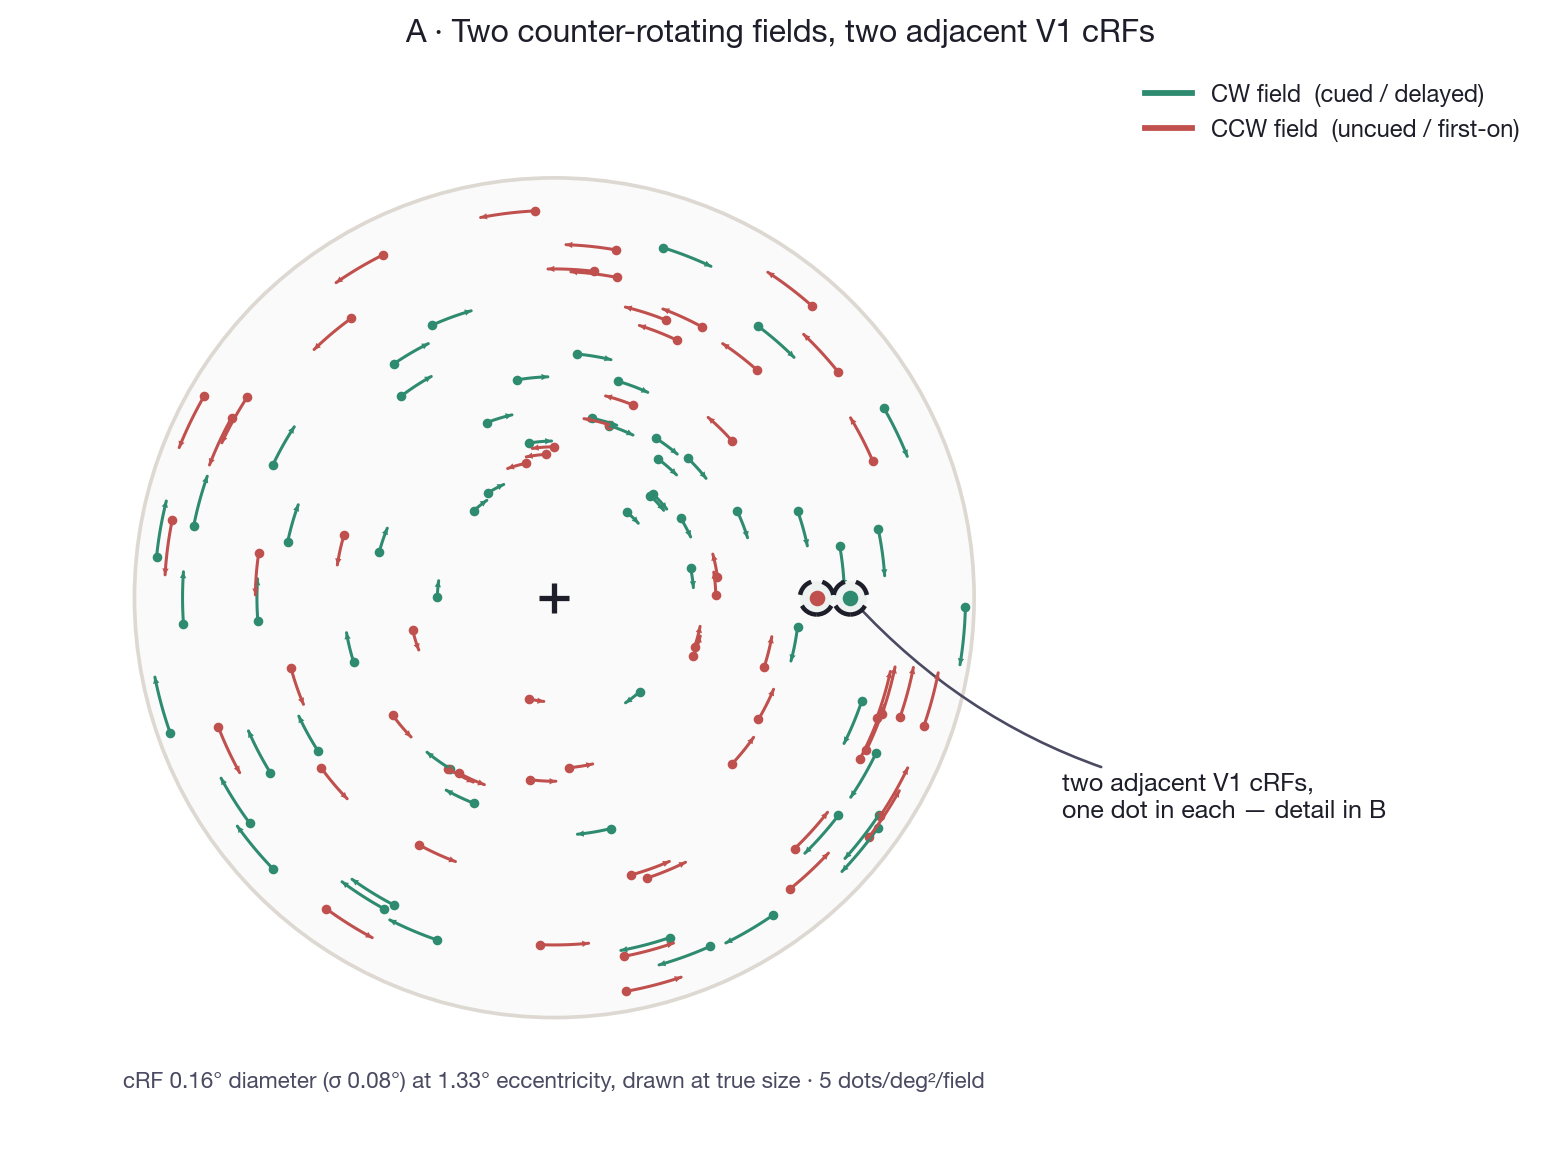
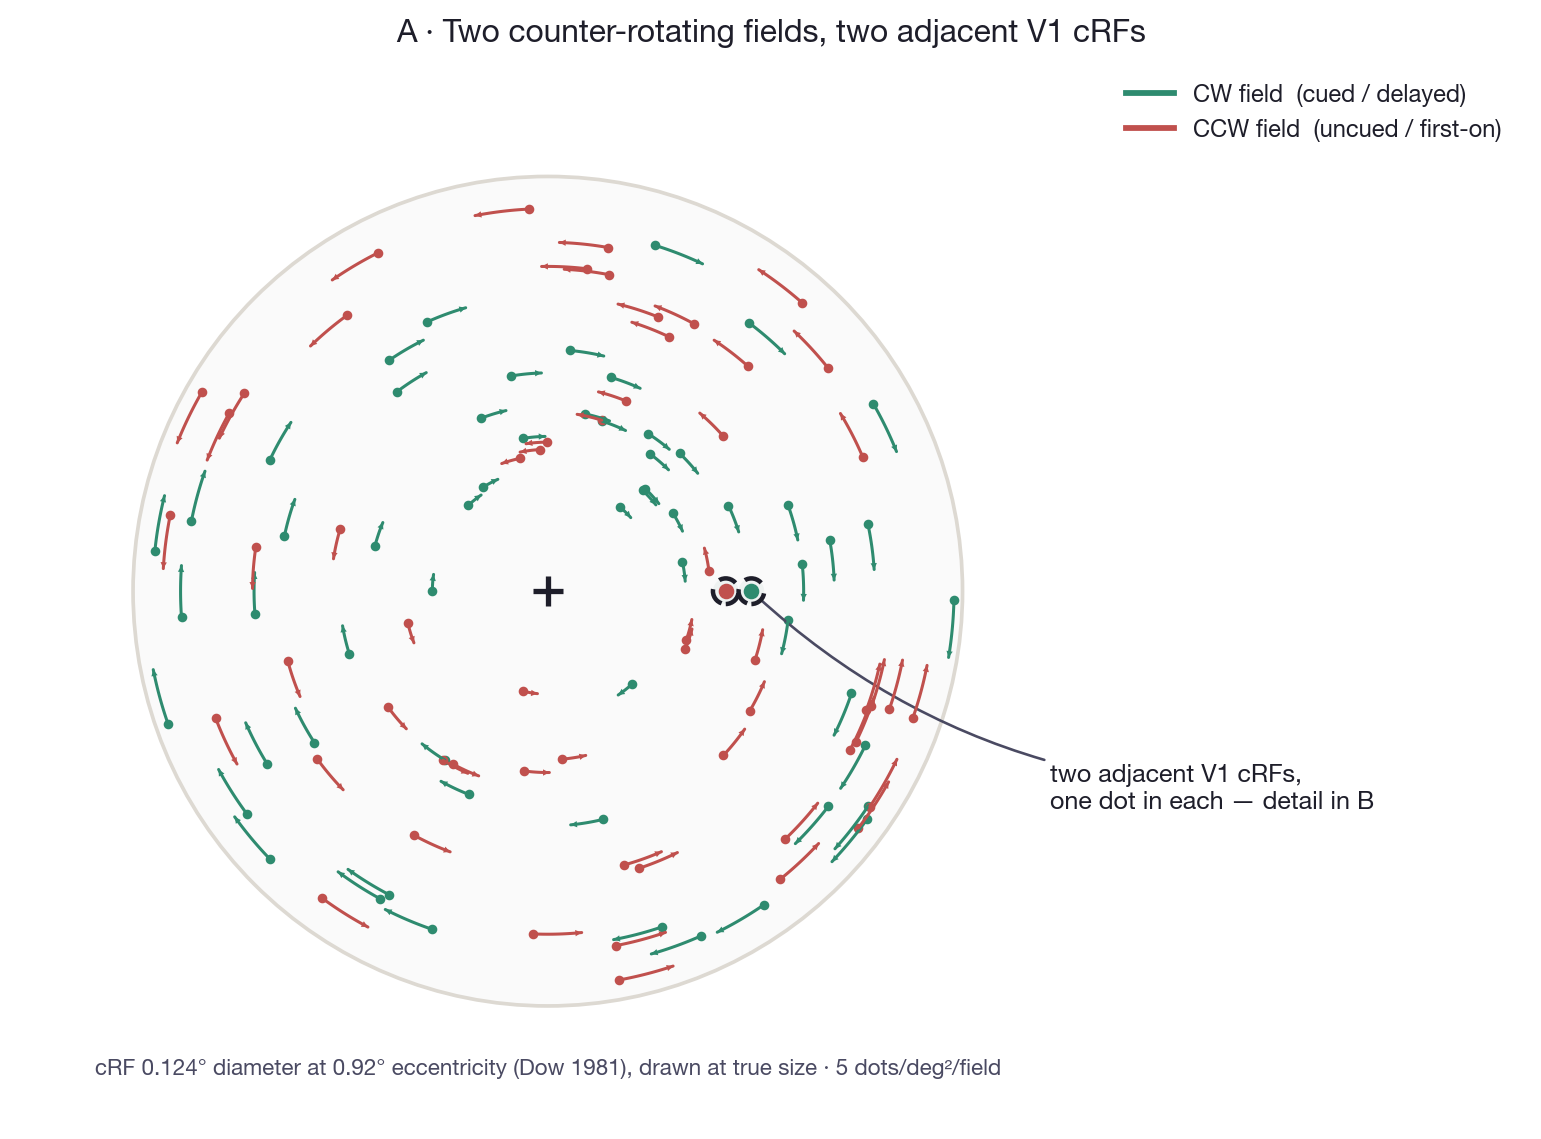
Size the cRFs from the containment assumption, not by hand
GS: the cRF must be big enough to hold the probe translation AND an equal
duration of the rotation before it — that is the model's central assumption.
Made it quantitative instead of assumed, and the figure now sizes and places
itself from it.

Two demands, and the binding one is NOT the translating dot:
  translating dot   rotation then perpendicular translation -> an L. Its minimum
                    enclosing circle is the one on the endpoints (corner lies on
                    it, Thales), diameter hypot(rot, trans).
  NON-translating   pure rotation for the whole 2 x 40 ms -> a straight run of
                    length rot(2T). Usually the LARGER demand.

cRF diameter grows with eccentricity (Dow 1981, d = 0.05 + 0.08E) but tangential
rotation speed grows faster (v = omega * E), while the probe displacement is
eccentricity-INDEPENDENT. So the assumption holds only inside a WINDOW:

    0.576 deg  <  E  <  1.511 deg

Below it the probe overruns the small foveal cRF; above it the rotation does.
The previous draft sat at E = 1.33 deg with only 1.04x margin — inside the
window but visually at its edge, which is what GS spotted. Now:

  E = 0.92 deg (the optimum), cRF 0.1236 deg from Dow rather than hard-coded
  translating needs 0.1043, non-translating 0.1040, cRF gives 0.1236 -> 1.19x

Each trajectory's minimum enclosing circle is centred on its cRF, so the margin
is symmetric and visible, and each panel states its own span and margin. The
[…]

diff --git a/Agents/Modeling/sb2010/ps_two_rf_figure.py b/Agents/Modeling/sb2010/ps_two_rf_figure.py
@@ -50,21 +50,78 @@ EXCL_DEG     = 0.47                 # near-fixation exclusion (matches Figure 2)
 DENSITY      = 5.0                  # dots / deg^2 / field
 N_DOTS       = int(round(DENSITY * np.pi * (APERTURE_DEG**2 - EXCL_DEG**2)))
 
-# ── the two V1 cRFs: adjacent, side by side, right of fixation ──
-CRF_DIAM_DEG = 0.16                 # Dow 1981 at ~1.3 deg eccentricity
-CRF_R_DEG    = CRF_DIAM_DEG / 2.0
-ECC_DEG      = 1.33                 # centre of the PAIR
-RF_LEFT      = (ECC_DEG - CRF_R_DEG, 0.0)
-RF_RIGHT     = (ECC_DEG + CRF_R_DEG, 0.0)
-
 # ── motion ──
 OMEGA_DEG_S  = 81.0                 # angular rotation speed
 PROBE_DEG_S  = 2.26                 # translation (probe) speed
-PRE_MS       = 40.0                 # window shown before the translation
+PRE_MS       = 40.0                 # rotation window shown before the probe
 TRANS_MS     = 40.0                 # translation duration (parameters.T_TRANS)
 TRACE_MS     = 100.0                # trace length for the background field dots
 
 TRANSLATING_FIELD = "cued"          # "cued" (green) or "uncued" (red)
+
+
+# ═══════════════════════════════════════════════════════════════════════════
+# THE CENTRAL ASSUMPTION, made quantitative.
+#
+# The model requires that a dot's pre-probe rotation AND its probe motion both
+# fall inside ONE V1 cRF. Two dots must fit, and they impose different demands:
+#
+#   translating dot   rotation (PRE_MS) then translation (TRANS_MS), and the two
+#                     are perpendicular -> an L. Its minimum enclosing circle has
+#                     diameter hypot(rot, trans)  (the corner lies on it, Thales).
+#   NON-translating   pure rotation for PRE_MS + TRANS_MS -> a straight run of
+#                     length rot(2T). This is usually the BINDING case.
+#
+# cRF diameter grows with eccentricity (Dow 1981, d = 0.05 + 0.08E) but so does
+# tangential rotation speed (v = omega * E), and the latter grows faster. The
+# probe displacement is eccentricity-INDEPENDENT. So the assumption holds only
+# inside a WINDOW of eccentricity — too near fixation the probe overruns the
+# small cRF, too far out the rotation does. ECC_DEG is placed at the optimum.
+# ═══════════════════════════════════════════════════════════════════════════
+def crf_diameter(E):
+    """Dow 1981 V1 cRF diameter (deg) at eccentricity E (deg)."""
+    return 0.05 + 0.08 * E
+
+
+def rot_arc(E, ms):
+    """Tangential arc length (deg) swept in ``ms`` at eccentricity E."""
+    return np.radians(OMEGA_DEG_S) * E * (ms / 1000.0)
+
+
+def required_translating(E):
+    """Min enclosing circle of the L-shaped rotation->translation path."""
+    return float(np.hypot(rot_arc(E, PRE_MS), PROBE_DEG_S * TRANS_MS / 1000.0))
+
+
+def required_straight(E):
+    """Straight run of the dot that keeps rotating through the probe window."""
+    return rot_arc(E, PRE_MS + TRANS_MS)
+
+
+def fit_margin(E):
+    """cRF diameter divided by the larger of the two demands. >1 means it fits."""
+    return crf_diameter(E) / max(required_translating(E), required_straight(E))
+
+
+def _best_eccentricity(lo=0.10, hi=4.0, n=40000):
+    Es = np.linspace(lo, hi, n)
+    m = np.array([fit_margin(E) for E in Es])
+    return float(Es[int(np.argmax(m))])
+
+
+def fit_window(lo=0.05, hi=6.0, n=200000):
+    """Eccentricity range over which BOTH dots fit inside one cRF."""
+    Es = np.linspace(lo, hi, n)
+    ok = np.array([fit_margin(E) > 1.0 for E in Es])
+    return (float(Es[ok].min()), float(Es[ok].max())) if ok.any() else (None, None)
+
+
+# ── the two V1 cRFs: adjacent, side by side, right of fixation ──
+ECC_DEG      = round(_best_eccentricity(), 2)   # centre of the PAIR, at the optimum
+CRF_DIAM_DEG = crf_diameter(ECC_DEG)            # sized from Dow, not hard-coded
+CRF_R_DEG    = CRF_DIAM_DEG / 2.0
+RF_LEFT      = (ECC_DEG - CRF_R_DEG, 0.0)
+RF_RIGHT     = (ECC_DEG + CRF_R_DEG, 0.0)
 
 
 # ═══════════════════════════════════════════════════════════════════════════
@@ -179,8 +236,8 @@ def fig_A(out="ps_two_rf_A.png"):
     ax.set_title("A · Two counter-rotating fields, two adjacent V1 cRFs",
                  fontsize=12, color=INK, pad=8)
     ax.text(0, -lim + 0.20,
-            f"cRF {CRF_DIAM_DEG:g}° diameter (σ {CRF_R_DEG:g}°) at {ECC_DEG:g}° "
-            f"eccentricity, drawn at true size · {DENSITY:g} dots/deg²/field",
+            f"cRF {CRF_DIAM_DEG:.3f}° diameter at {ECC_DEG:g}° eccentricity "
+            f"(Dow 1981), drawn at true size · {DENSITY:g} dots/deg²/field",
             ha="center", va="bottom", fontsize=8.5, color=INK2)
 
     fig.tight_layout()
@@ -223,13 +280,20 @@ def fig_B(out="ps_two_rf_B.png"):
         during = (_translation_path(p_switch, TRANS_MS) if translates
                   else _rotation_path(p_switch, sense, TRANS_MS))
 
+        # Centre the path's MINIMUM ENCLOSING CIRCLE on the cRF centre. For both
+        # shapes here — a straight run, and two perpendicular arms — that circle
+        # is the one on the endpoints as diameter (the corner lies on it, Thales),
+        # so its centre is simply the midpoint of first and last point. This gives
+        # symmetric margin all round and is what makes the fit visible.
         full = np.vstack([pre, during])
-        centre = np.array([(full[:, 0].min() + full[:, 0].max()) / 2.0,
-                           (full[:, 1].min() + full[:, 1].max()) / 2.0])
+        centre = (full[0] + full[-1]) / 2.0
         shift = np.asarray(rf_c, float) - centre
         pre = pre + shift
         during = during + shift
         p0, p_switch = pre[0], pre[-1]
+
+        span = float(np.hypot(*(full[-1] - full[0])))   # enclosing diameter
+        margin = CRF_DIAM_DEG / span
 
         # before the probe
         ax.plot(pre[:, 0], pre[:, 1], color=colour, lw=2.0, alpha=0.55,
@@ -250,6 +314,12 @@ def fig_B(out="ps_two_rf_B.png"):
         ax.text(rf_c[0], rf_c[1] + CRF_R_DEG + pad * 0.55, note,
                 ha="center", va="bottom", fontsize=9.5,
                 color=colour, fontweight="bold")
+
+        # the fit itself, stated on the figure
+        ax.text(rf_c[0], rf_c[1] - CRF_R_DEG - pad * 0.55,
+                f"path spans {span:.3f}° in a {CRF_DIAM_DEG:.3f}° cRF "
+                f"({margin:.2f}× margin)",
+                ha="center", va="top", fontsize=9, color=INK2)
 
         ax.set_title(f"{panel_lab}\n{sub}", fontsize=11, color=INK, pad=6)
 
@@ -279,11 +349,21 @@ def fig_B(out="ps_two_rf_B.png"):
 
 
 if __name__ == "__main__":
+    lo, hi = fit_window()
+    tang = np.radians(OMEGA_DEG_S) * ECC_DEG
     print(f"N_DOTS per field = {N_DOTS}  (density {DENSITY} dots/deg^2/field)")
-    tang = OMEGA_DEG_S * np.pi / 180 * ECC_DEG
-    print(f"tangential speed at {ECC_DEG} deg = {tang:.3f} deg/s")
-    print(f"  rotation displacement in {TRANS_MS:g} ms = {tang * TRANS_MS/1000:.4f} deg")
-    print(f"  probe    displacement in {TRANS_MS:g} ms = "
-          f"{PROBE_DEG_S * TRANS_MS/1000:.4f} deg   (cRF diam {CRF_DIAM_DEG} deg)")
+    print(f"eccentricity     = {ECC_DEG} deg   (optimum for the fit)")
+    print(f"cRF diameter     = {CRF_DIAM_DEG:.4f} deg  (Dow 1981 at that E)")
+    print(f"tangential speed = {tang:.3f} deg/s\n")
+    print("THE CENTRAL ASSUMPTION — does the whole path fit in one cRF?")
+    print(f"  translating dot (L-path)   needs {required_translating(ECC_DEG):.4f} deg")
+    print(f"  non-translating (straight) needs {required_straight(ECC_DEG):.4f} deg   <- binding")
+    print(f"  cRF provides                     {CRF_DIAM_DEG:.4f} deg"
+          f"   -> margin {fit_margin(ECC_DEG):.2f}x")
+    print(f"\n  holds only for {lo:.3f} < E < {hi:.3f} deg")
+    print( "    lower bound: probe displacement is E-independent, foveal cRFs too small")
+    print( "    upper bound: tangential rotation grows faster than cRF diameter")
+    assert fit_margin(ECC_DEG) > 1.0, "trajectory does not fit inside the cRF"
+    print()
     fig_A()
     fig_B()
